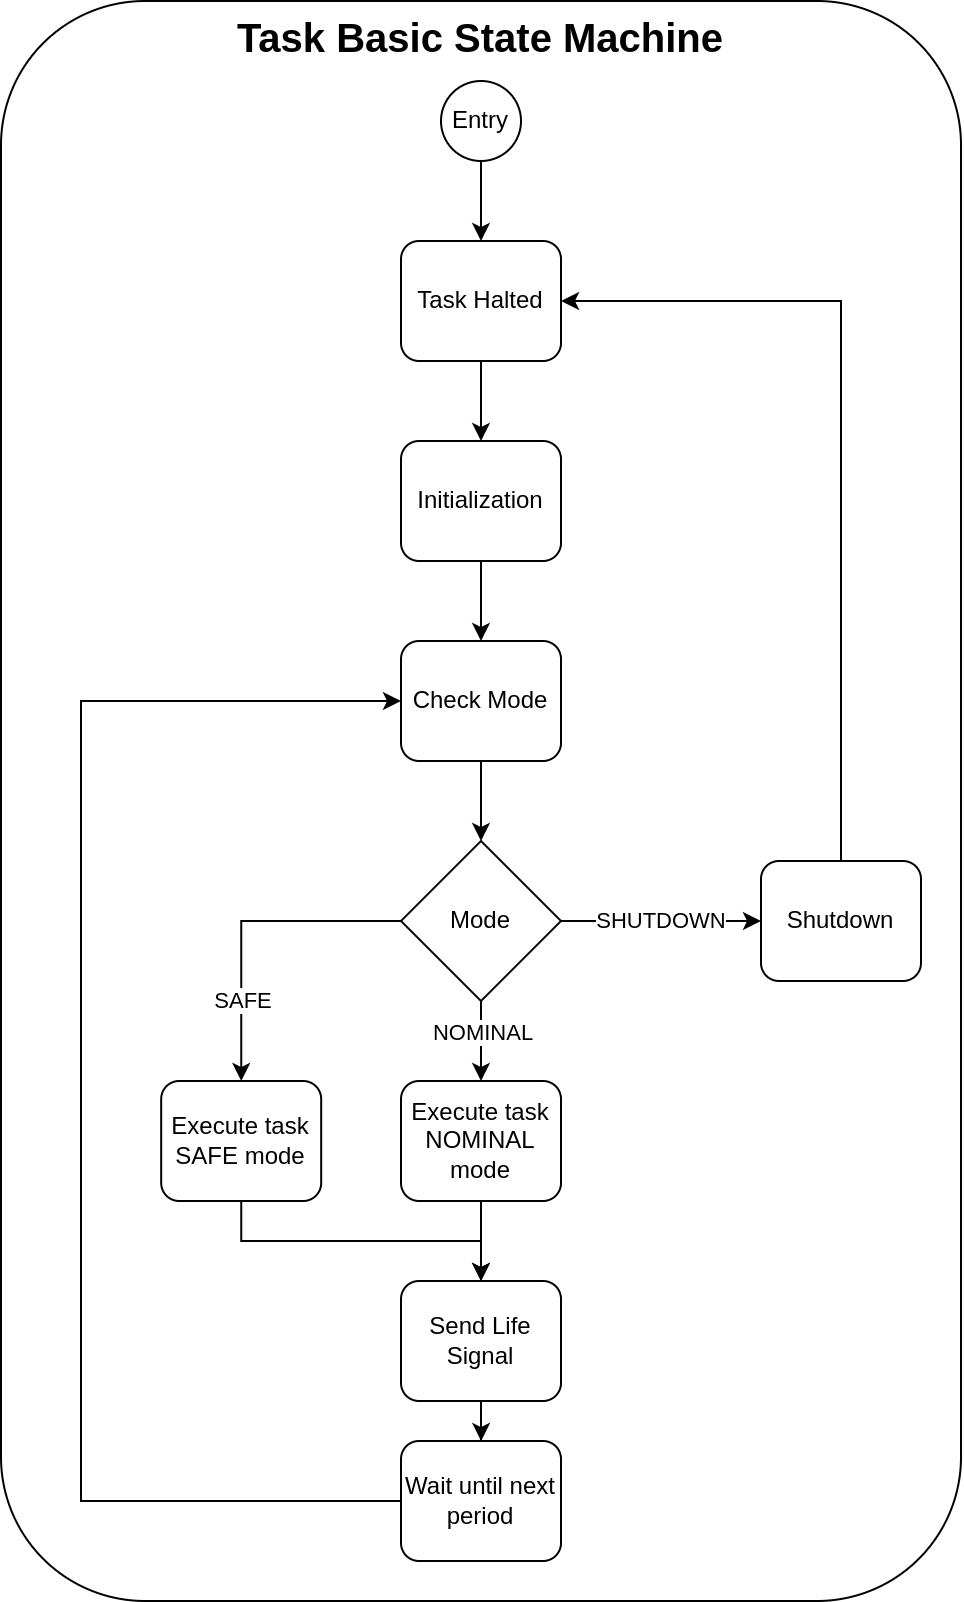
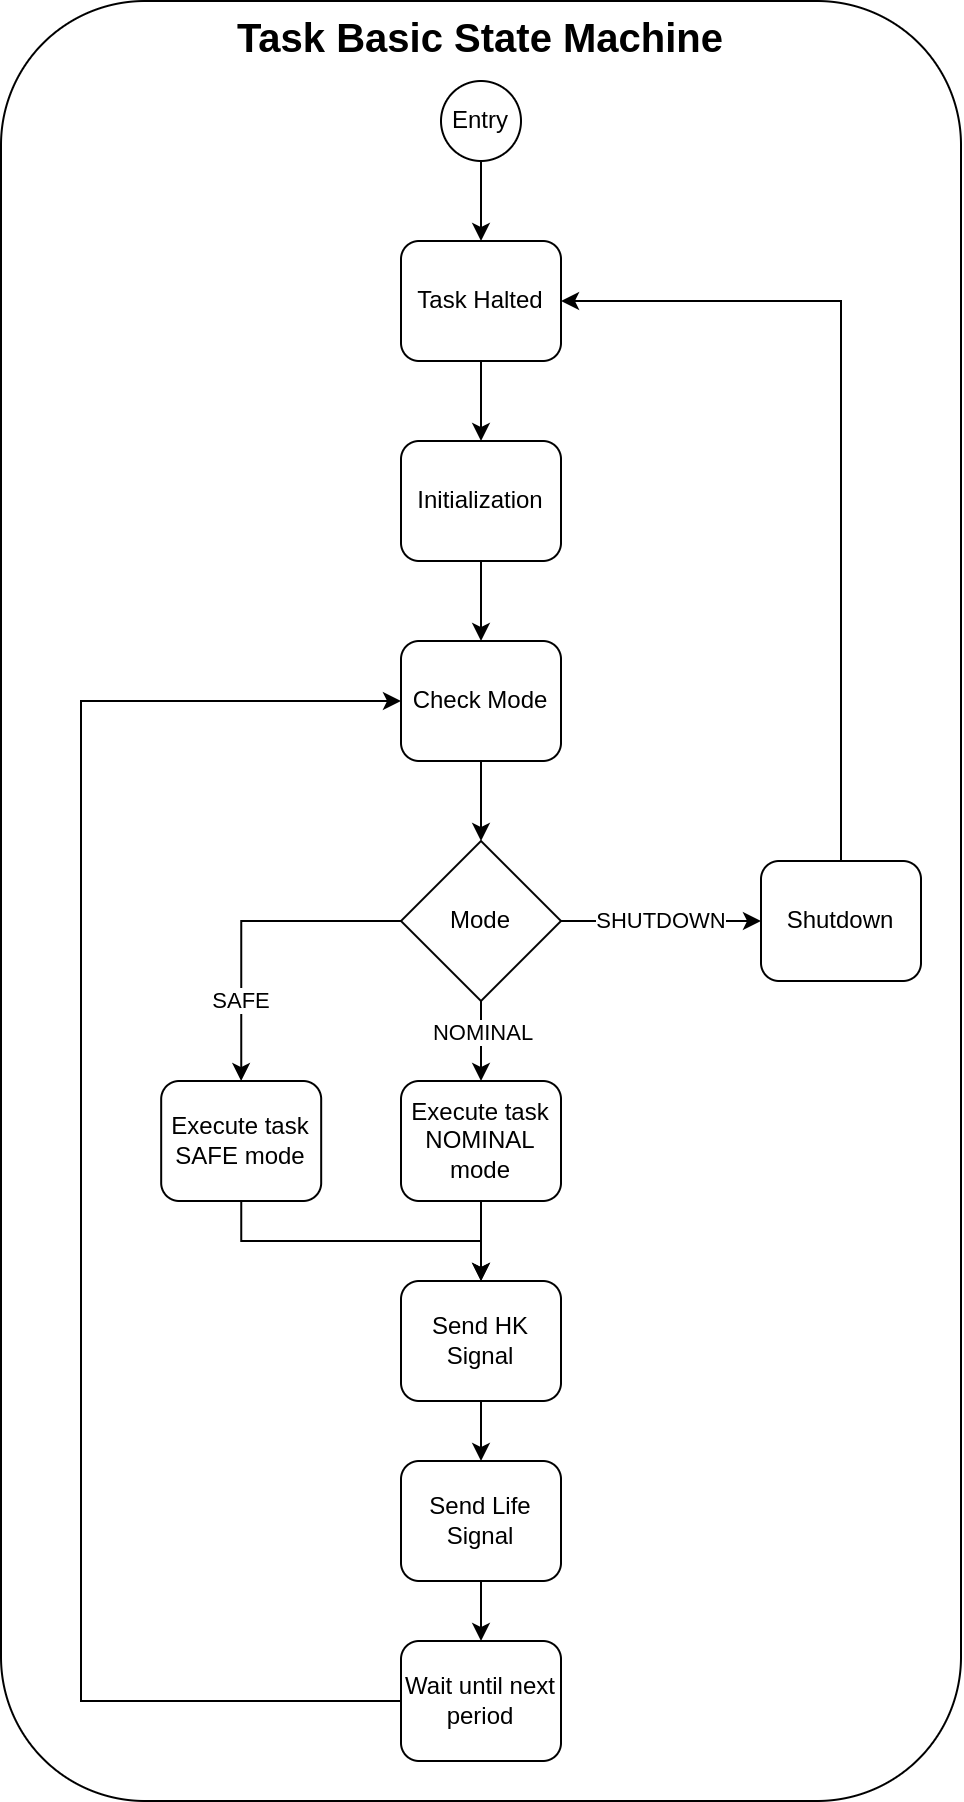
Modified some graphs

diff --git a/doc/technical-specifications/Internal_Architecture.md b/doc/technical-specifications/Internal_Architecture.md
@@ -214,6 +214,7 @@ The following table summarises the life message format:
 With the exception of certain tasks, all tasks must be based on the same operation. Standardising the way tasks operate means that there is a constant interface with the rest of the tasks, particularly the life analysis and management mode tasks. All these tasks are based on a state machine which must :
 - Periodically execute the task process as defined by the mode.
 - Send a life signal periodically.
+- Send a housekeeping signal periodically.
 - Have an initialisation state that enables the necessary hardware and software resources to be activated.
 - A shutdown state to deactivate hardware and software resources.
 - A stop state that automatically suspends the task. When the task is resumed by the system, it is essential to exit the shutdown state.
@@ -221,7 +222,7 @@ With the exception of certain tasks, all tasks must be based on the same operati
 - Be able to stop the task. In this case, the job must go through the shutdown state and then the stop state.  
 - Move into the stop state after the task entrypoint before initialisation. Only the mode management task can order the initialisation.
 
-There may, however, be an exception: some tasks must run indefinitely from start-up, and these tasks can afford not to have a shutdown or stop state. Consequently, if these tasks fail, only a hard reset can solve the problem.
+There may, however, be some exceptions: some tasks does not have housekeepings and some tasks must run indefinitely from start-up. Consequently, these tasks can afford not to have a shutdown or stop state, i.e. if these tasks fail, only a hard reset can solve the problem.
 
 The operating principle of these tasks can be summarised using the following state machine:
 
